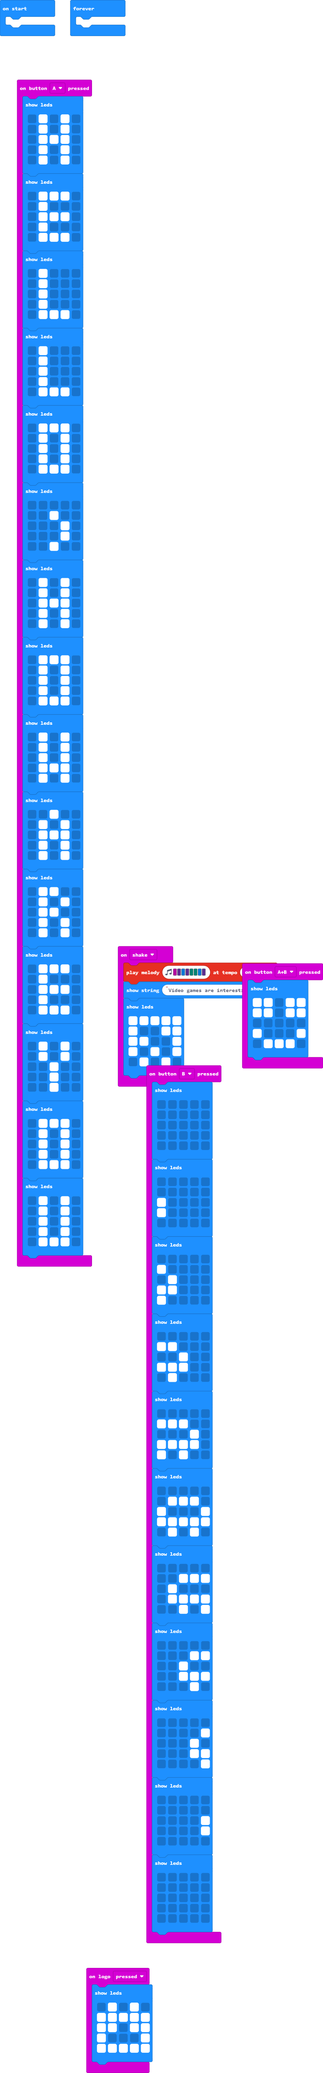
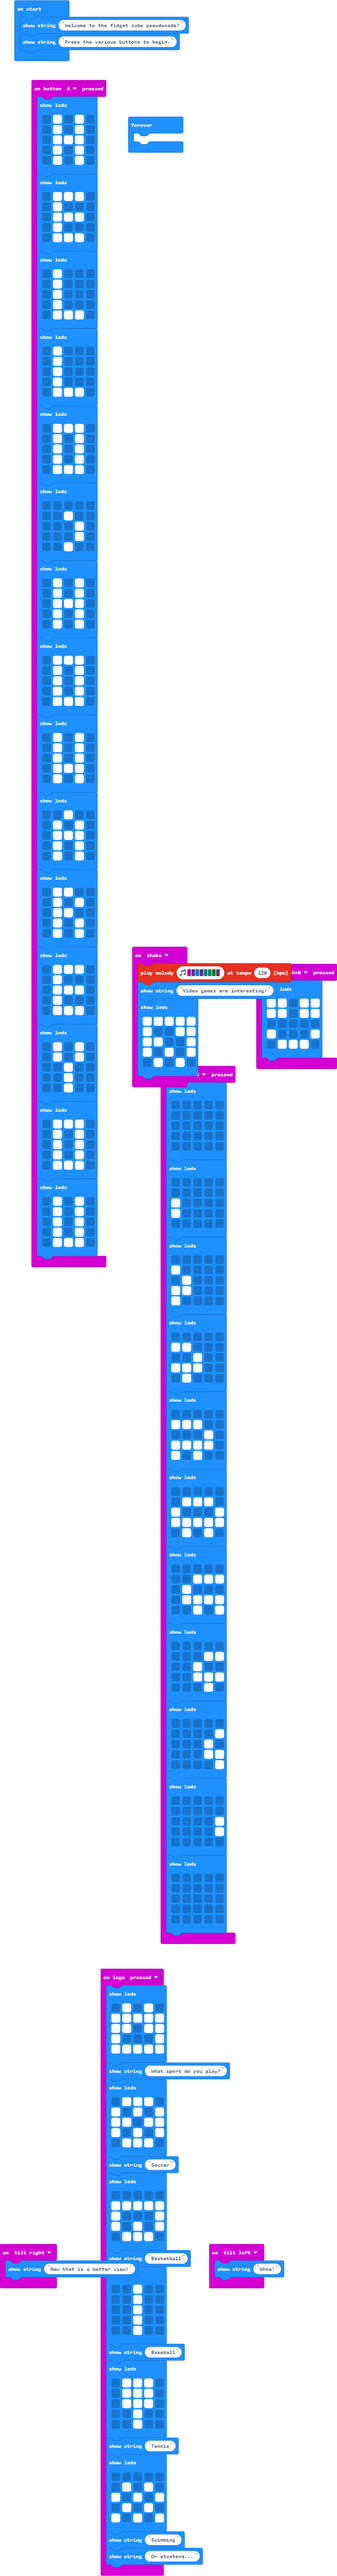
Update main.blocks, main.ts

Changed region(s): [[0.0, 0.3427, 1.0, 1.0], [0.0, 0.0, 0.5547, 0.623], [0.5855, 0.9657, 0.6164, 0.9969]]

diff --git a/main.ts b/main.ts
@@ -105,6 +105,9 @@ input.onButtonPressed(Button.A, function () {
         . # # # .
         `)
 })
+input.onGesture(Gesture.TiltLeft, function () {
+    basic.showString("Whoa!")
+})
 input.onButtonPressed(Button.AB, function () {
     basic.showLeds(`
         # # . # #
@@ -194,7 +197,7 @@ input.onButtonPressed(Button.B, function () {
         `)
 })
 input.onGesture(Gesture.Shake, function () {
-    music.playMelody("C D E D F F E D ", 120)
+    music.playMelody("C D E D F F G D ", 120)
     basic.showString("Video games are interesting!")
     basic.showLeds(`
         # # # # #
@@ -204,6 +207,9 @@ input.onGesture(Gesture.Shake, function () {
         . # . # .
         `)
 })
+input.onGesture(Gesture.TiltRight, function () {
+    basic.showString("Now that is a better view!")
+})
 input.onLogoEvent(TouchButtonEvent.Pressed, function () {
     basic.showLeds(`
         . # . # .
@@ -212,7 +218,51 @@ input.onLogoEvent(TouchButtonEvent.Pressed, function () {
         # . . . #
         # # # # #
         `)
+    basic.showString("What sport do you play?")
+    basic.showLeds(`
+        . # # # .
+        # . # . #
+        # # . # #
+        # . # . #
+        . # # # .
+        `)
+    basic.showString("Soccer")
+    basic.showLeds(`
+        . . . . .
+        # # # # #
+        # . . . #
+        # . # . #
+        . # # # .
+        `)
+    basic.showString("Basketball")
+    basic.showLeds(`
+        . . # . .
+        . . # . .
+        . . # . .
+        . . # . .
+        . . # . .
+        `)
+    basic.showString("Baseball")
+    basic.showLeds(`
+        . # # # .
+        . # # # .
+        . # # # .
+        . . # . .
+        . . # . .
+        `)
+    basic.showString("Tennis")
+    basic.showLeds(`
+        . . . . .
+        . # . # .
+        # . # . #
+        . # . # .
+        # . # . #
+        `)
+    basic.showString("Swimming")
+    basic.showString("Or etcetera...")
 })
+basic.showString("Welcome to the fidget cube pseudocode!")
+basic.showString("Press the various buttons to begin.")
 basic.forever(function () {
 	
 })
